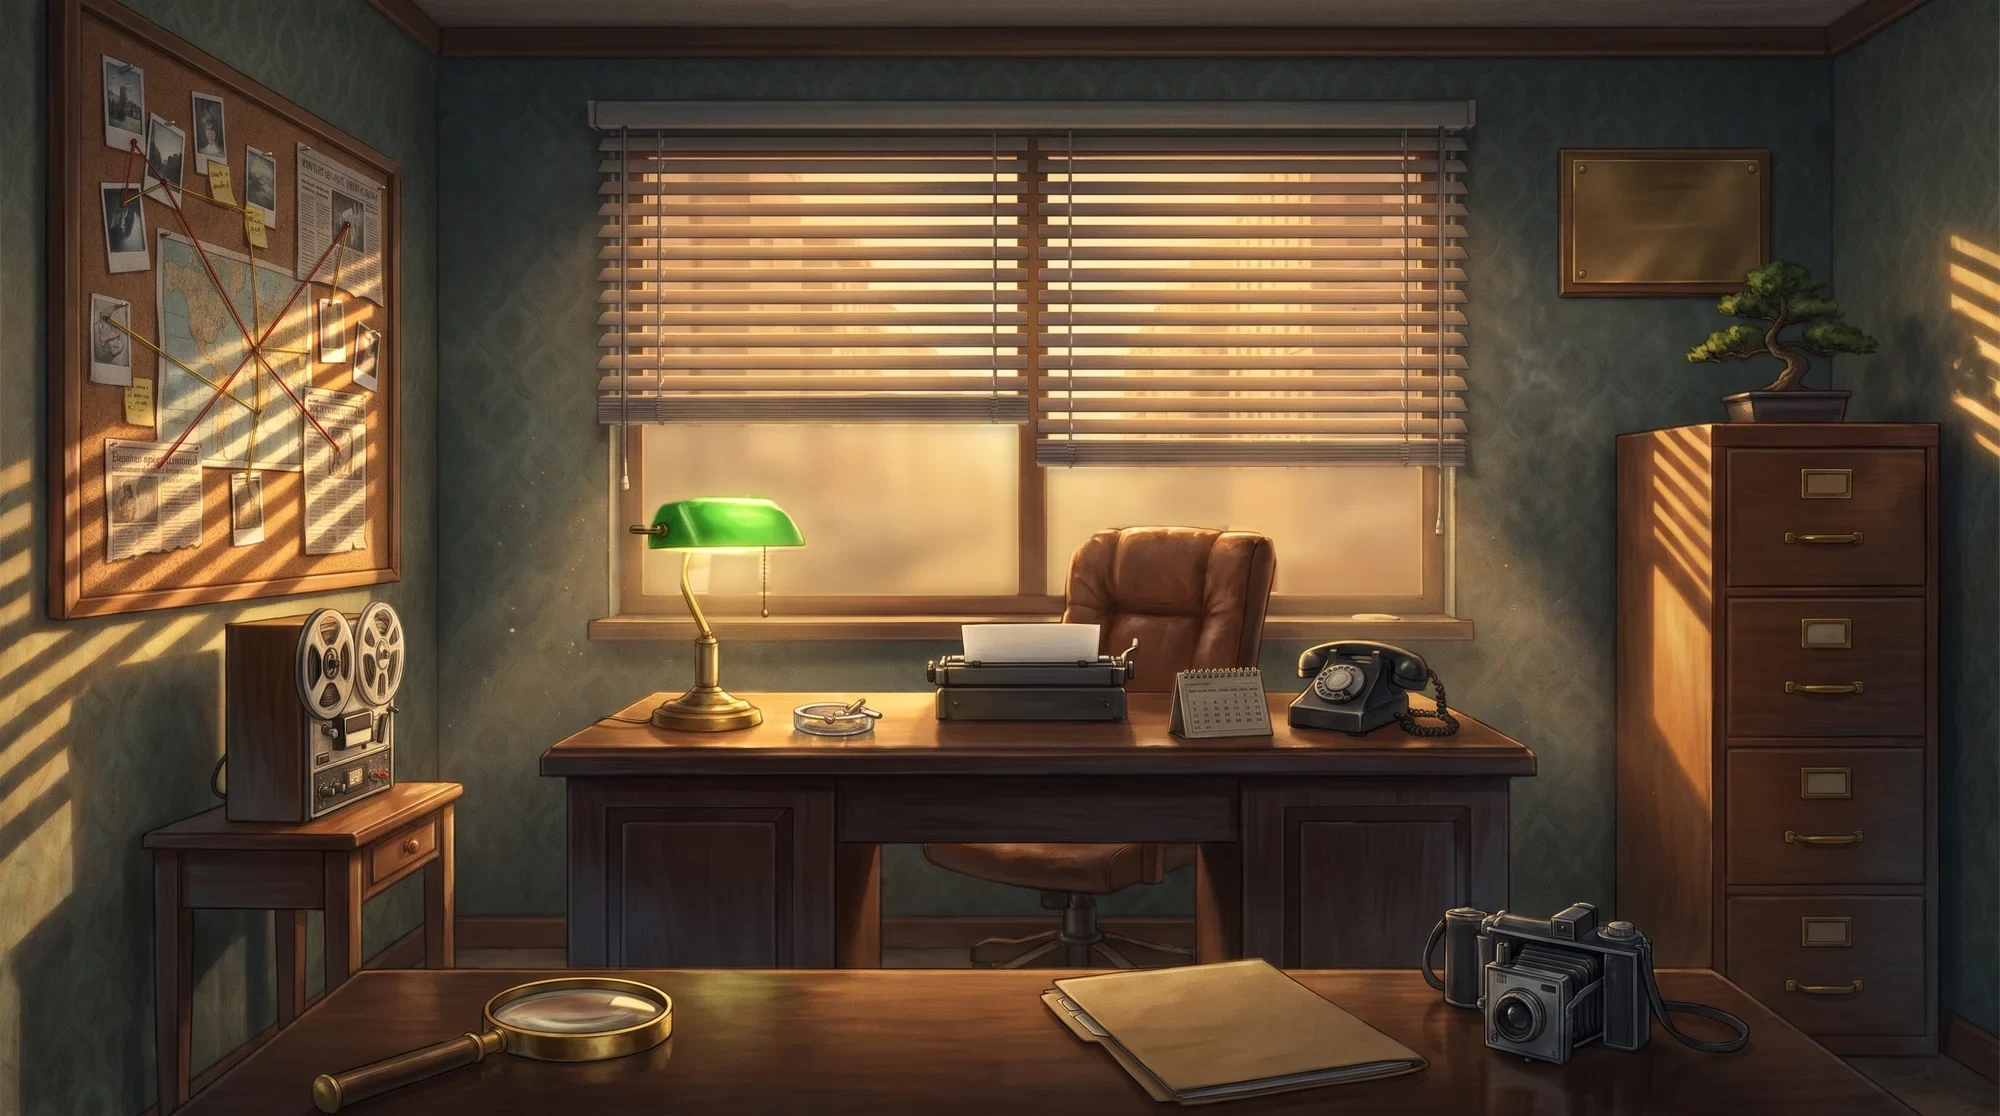
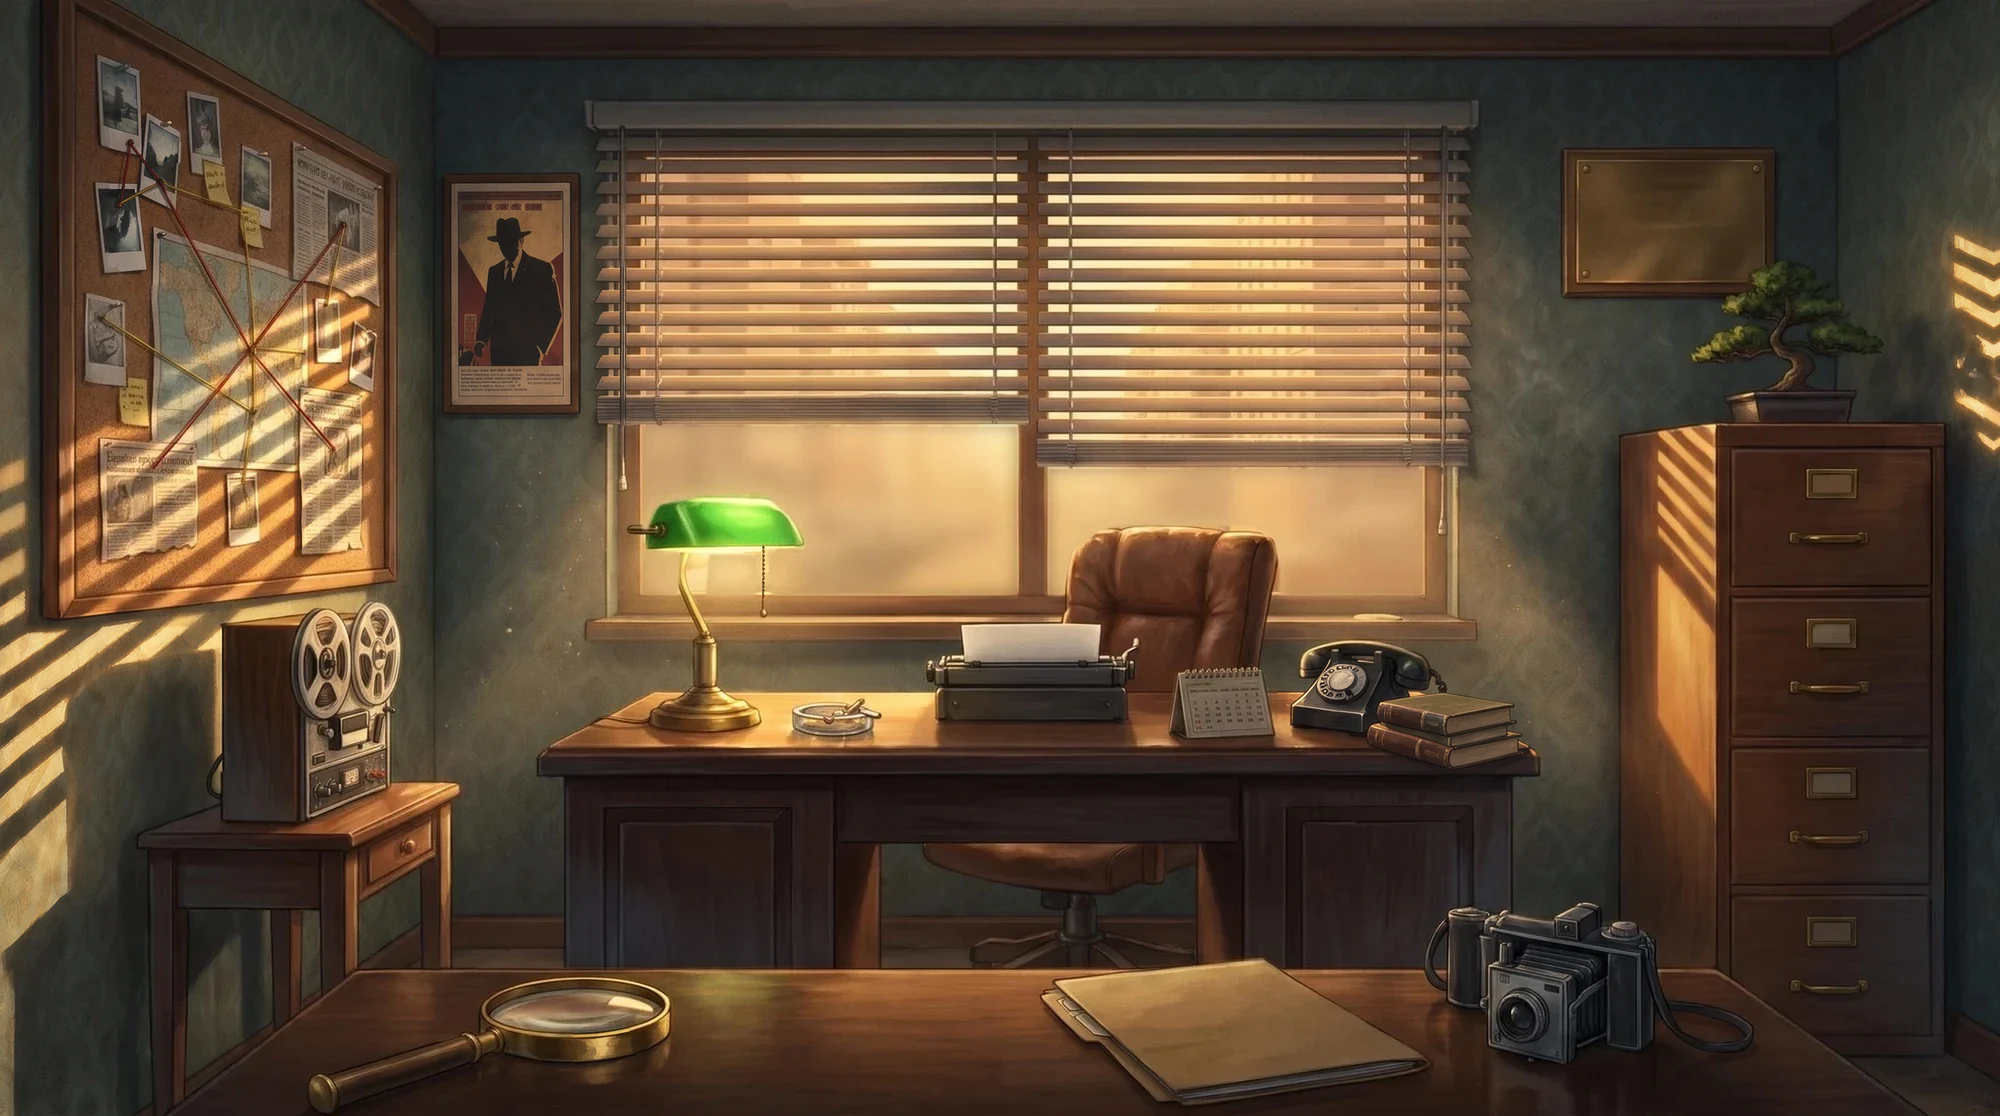
Regenerate desktop scene with new props and add Achievements panel
The desktop illustration now has the books and film poster to match the
vertical mobile scene. The plaque becomes Awards and opens an
Achievements panel with its own content instead of repeating Projects.

diff --git a/spike/despacho-tarde-mock.html b/spike/despacho-tarde-mock.html
@@ -150,17 +150,19 @@
   const SPOTS = [
     { id: 'skills',   label: 'Skills',   nav: true,  pts: '50,12 398,162 398,581 50,619',                        c: [225, 380],  tag: [225, 300] },
     { id: 'about',    label: 'About',    nav: true,  pts: '927,625 1138,625 1132,725 930,725',                   c: [1030, 676], tag: [1030, 585] },
-    { id: 'contact',  label: 'Contact',  nav: true,  pts: '1285,635 1462,635 1462,740 1285,740',                 c: [1372, 688], tag: [1372, 595] },
+    { id: 'contact',  label: 'Contact',  nav: true,  pts: '1285,635 1450,635 1450,695 1368,700 1368,740 1285,740',                 c: [1372, 688], tag: [1372, 595] },
     { id: 'projects', label: 'Projects', nav: true,  pts: '1616,431 1937,425 1937,1056 1616,1050',               c: [1776, 740], tag: [1776, 640] },
-    { id: 'plaque',   label: 'Winner',   nav: false, pts: '1559,150 1770,150 1770,295 1559,295',                 c: [1664, 222], tag: [1664, 335] },
+    { id: 'plaque',   label: 'Awards',   nav: false, pts: '1559,150 1770,150 1770,295 1559,295',                 c: [1664, 222], tag: [1664, 335] },
     { id: 'lens',     label: 'Magnifier',nav: false, pts: '310,1110 480,1015 668,978 672,1040 500,1062 340,1113', c: [490, 1040], tag: [490, 940] },
+    { id: 'books',    label: 'Books',    prop: true, pts: '1368,698 1522,700 1525,770 1370,758' },
+    { id: 'poster',   label: 'Poster',   prop: true, pts: '445,175 580,175 580,415 445,415' },
     { id: 'tape',     label: 'Play',     nav: false, pts: '225,600 400,600 400,825 225,825',                     c: [312, 735],  tag: [312, 862] },
   ];
   // fichas de evidencia (datos del design doc; textos de maqueta)
   const SCAN = {
     projects: { ex: 'Exhibit A', name: 'Projects cabinet', lines: ['4 cases on file · 673 commits', '2 public repos, 2 private', 'Latest win: AWS Zero to Shipped'] },
     skills:   { ex: 'Exhibit B', name: 'Connections board', lines: ['1,785 contributions in 12 months', 'Steady since May 2026', 'Busiest: Jun–Sep, 300+ a month'] },
-    plaque:   { ex: 'Exhibit C', name: 'Winner plaque', lines: ['AWS Zero to Shipped · 1 of 5', 'Rumbo a Casa · 205 commits'] },
+    plaque:   { ex: 'Exhibit C', name: 'Awards plaque', lines: ['AWS Zero to Shipped · 1 of 5', 'Rumbo a Casa · 205 commits'] },
     about:    { ex: 'Exhibit D', name: 'Typewriter', lines: ['March 2026: 17 contributions', 'July 2026: 408 contributions'] },
     books:    { ex: 'Exhibit F', name: 'Books', lines: ['Reads Camus and Dostoevsky'] },
     poster:   { ex: 'Exhibit G', name: 'Film poster', lines: ['Mafia cinema, the Al Pacino kind'] },
@@ -188,7 +190,7 @@
   const bo = el('g', { 'clip-path': 'url(#bonclip)' }); const bs = el('g', { class: 'sway' }, bo); bs.style.transformOrigin = '1790px 394px';
   el('image', { href: 'assets/despacho-tarde.webp', x: 0, y: 0, width: 2000, height: 1116 }, bs);
   // carretes de la grabadora: se recorta cada carrete (elipse por la perspectiva), se estira a círculo, se gira y se vuelve a comprimir
-  [[330, 664, 23, 50], [381, 653, 19.5, 47]].forEach(([cx, cy, rx, ry], i) => {
+  [[328, 664, 24.5, 52], [378, 654, 22, 50]].forEach(([cx, cy, rx, ry], i) => {
     const k = rx / ry;
     const cp = el('clipPath', { id: 'reelclip' + i }, defs); el('ellipse', { cx, cy, rx, ry }, cp);
     const outer = el('g', { 'clip-path': `url(#reelclip${i})` });
@@ -273,7 +275,7 @@
       { id: 'about',    label: 'About',    nav: true,  pts: '690,1310 944,1310 944,1480 690,1480',        c: [817, 1395], tag: [817, 1225] },
       { id: 'contact',  label: 'Contact',  nav: true,  pts: '1104,1320 1280,1320 1320,1450 1104,1450',    c: [1210, 1385], tag: [1215, 1660] },
       { id: 'projects', label: 'Projects', nav: true,  pts: '1296,920 1536,920 1536,1660 1296,1660',      c: [1420, 1290], tag: [1300, 1090] },
-      { id: 'plaque',   label: 'Winner',   nav: false, pts: '1246,544 1454,544 1454,700 1246,700',        c: [1350, 622],  tag: [1350, 470] },
+      { id: 'plaque',   label: 'Awards',   nav: false, pts: '1246,544 1454,544 1454,700 1246,700',        c: [1350, 622],  tag: [1350, 470] },
       { id: 'lens',     label: 'Magnifier',nav: false, pts: '56,2160 516,2160 516,2480 56,2480',          c: [290, 2320],  tag: [300, 2150] },
       { id: 'tape',     label: 'Play',     nav: false, pts: '20,1300 208,1300 208,1630 20,1630',          c: [110, 1545], tag: [170, 1740] },
       { id: 'books',    label: 'Books',    prop: true,  pts: '1124,1436 1350,1436 1350,1570 1124,1570' },
@@ -349,7 +351,10 @@
       <button class="btn" type="button" style="margin-top:0">Send message</button>
       <div class="group"><h3>Or reach me directly</h3><a class="btn alt" href="#" style="margin-top:4px">GitHub</a><a class="btn alt" href="#" style="margin-top:4px">LinkedIn</a><a class="btn alt" href="#" style="margin-top:4px">Email</a></div>
       <p class="meta">Real form: API Gateway + Lambda + SES.</p>`,
-    plaque: () => `<h2>Winner</h2><h1>AWS Zero to Shipped</h1><p>Winner (1 of 5) with <b>Rumbo a Casa</b>.</p><a class="btn" href="#">See the Winners tab</a><a class="btn alt" data-go="projects" href="#">See the project</a>`,
+    plaque: () => `<h2>Awards</h2><h1>Achievements</h1>
+      <div class="group"><h3>2026 · AWS Zero to Shipped</h3><p><b>Winner</b> (1 of 5) with <b>Rumbo a Casa</b>.</p><a class="btn" href="#">See the Winners tab</a><a class="btn alt" data-go="projects" href="#">See the project</a></div>
+      <div class="group"><h3>2026 · Rally de Innovación, USS</h3><p><b>1st place, Social Impact</b> with team Helix, for <b>Minuto Cero</b>, an ERP for Chilean minimarkets.</p><a class="btn alt" data-go="projects" href="#">See the project</a></div>
+      <p class="meta">The AWS certificate will be added here when it arrives.</p>`,
   };
   function open(id) {
     $('#content').innerHTML = PANELS[id](); if (id === 'skills') initMap(); $('#veil').classList.add('on'); body.classList.add('panel-open');

diff --git a/docs/superpowers/specs/2026-10-28-portafolio-scouter-design.md b/docs/superpowers/specs/2026-10-28-portafolio-scouter-design.md
@@ -53,19 +53,19 @@ Matías participa (individual) en el **AWS Student Builder Challenge: Build Your
 - Teléfono → **Contact**: se llama al detective.
 - Tablero de corcho con hilos → **Skills**: es donde conecta sus herramientas con sus casos.
 - Archivero → **Projects**: los casos archivados.
-- Placa en la pared → **Winner**: el logro AWS.
+- Placa en la pared → **Awards**: sus reconocimientos (panel "Achievements").
 
-**Ilustración.** `spike/assets/despacho-tarde.webp` (2000×1116, generada en Higgsfield, modelo cinematic_studio_2_5; original sin retoques en `despacho-tarde-original.webp`). Luz de tarde con persianas. Retoques propios: paisaje de la ventana desenfocado y humo pintado borrado. No se rehace el arte; si se regenera, que sea para añadir espacio o props concretos.
+**Ilustración.** `spike/assets/despacho-tarde.webp` (2000×1116): segunda versión (29 oct), editada en Higgsfield con `flux_3_image` a partir de la primera (cinematic_studio_2_5, conservada en el historial de git y como `despacho-tarde-original.webp` sin retoques). Luz de tarde con persianas; añade los libros junto al teléfono y el afiche de cine entre el tablero y la ventana, iguales a la versión vertical. Todo lo demás conserva su posición, por lo que los hotspots casi no cambiaron. No se rehace el arte; si se regenera, que sea para añadir espacio o props concretos.
 
 **Escena.** SVG con la imagen y una capa de hotspots poligonales en coordenadas de la imagen. La escena se ajusta con `preserveAspectRatio="xMidYMid slice"`.
 
 ## 5. Navegación
 
 - **Barra superior fija (opción A):** marca "Matías Rodriguez" y menú **About, Skills, Projects, Contact**. Funciona sin tocar la escena.
-- **Objetos con etiqueta visible** (punto pulsante y etiqueta de papel): Skills, About, Contact, Projects y Winner (placa), más el carrete de cinta ("Play") y la lupa ("Magnifier").
+- **Objetos con etiqueta visible** (punto pulsante y etiqueta de papel): Skills, About, Contact, Projects y Awards (placa), más el carrete de cinta ("Play") y la lupa ("Magnifier").
 - **Paneles:** hoja clara sobre la escena atenuada, texto legible, sin rotaciones ni máquina de escribir, con enlaces directos. Se cierran con la X, con `Esc` o haciendo clic fuera. Foco visible y navegación por teclado en los hotspots.
 - **Pista inferior fija:** "Pick up the magnifier on the desk to inspect the objects · or use the menu above · press play on the tape". Cambia mientras la lupa está activa.
-- Sin Journey ni trayectoria como sección: los logros viven en Projects, la placa y About.
+- Sin Journey ni trayectoria como sección: los reconocimientos viven en la placa (Achievements) y en las tarjetas de Projects.
 
 ## 6. Paneles (contenido)
 
@@ -86,7 +86,7 @@ Total: 673 commits (dato de la ficha de la lupa). Los repos privados (JequeBot, 
 
 **Contact.** Formulario corto (nombre, correo, mensaje) que usa API Gateway + Lambda + SES, más enlaces a GitHub, LinkedIn y correo, con `mailto:` de respaldo.
 
-**Winner (placa).** Panel breve: ganador (1 de 5) de AWS Zero to Shipped con Rumbo a Casa, enlace a la pestaña Winners y al proyecto. Es un énfasis pequeño; el portafolio sigue siendo completo.
+**Awards (placa): panel "Achievements".** Contenido propio, sin repetir las tarjetas de Projects: AWS Zero to Shipped (ganador, 1 de 5, con Rumbo a Casa, con enlace a la pestaña Winners y al proyecto) y Rally de Innovación 2026, USS (1º lugar Impacto Social con el equipo Helix, por Minuto Cero). Cuando llegue el certificado de AWS se añade aquí. Responde a la sección "Projects/Achievements" que piden las reglas.
 
 La práctica profesional en legal tech se menciona como una línea genérica, sin nombre de cliente ni detalles de código.
 
@@ -104,7 +104,7 @@ Principio: **bastante visible, no invasivo.** Todo son capas SVG/CSS sobre la im
 
 ## 8. La feature creativa: la lupa
 
-**Qué es.** Un modo opcional en el que el visitante "recoge" la lupa de la mesa y puede mirar de cerca los objetos del despacho. Al apuntar a un objeto aparece una **ficha de papel** con tinta ámbar ("Exhibit A…G (F y G solo existen en la vertical por ahora)") con 1-3 líneas de datos. Tono sobrio, sin humor.
+**Qué es.** Un modo opcional en el que el visitante "recoge" la lupa de la mesa y puede mirar de cerca los objetos del despacho. Al apuntar a un objeto aparece una **ficha de papel** con tinta ámbar ("Exhibit A…G ") con 1-3 líneas de datos. Tono sobrio, sin humor.
 
 **Pista visible.** La lupa de la mesa lleva etiqueta "Magnifier" y la franja inferior fija dice "Pick up the magnifier on the desk to inspect the objects". No hay botón aparte en la barra. Se activa con clic en la lupa o con la tecla `S`; se sale con `Esc`. Con la lupa activa, el cursor se convierte en una lente y navegar (clics, menú, scroll) sigue funcionando. Funciona sin la lupa: nada profesional depende de ella.
 
@@ -126,6 +126,8 @@ Principio: **bastante visible, no invasivo.** Todo son capas SVG/CSS sobre la im
 **Contador de escaneos (opcional).** Cada ficha puede mostrar "visto N veces por visitantes", guardado en DynamoDB (ver sección 9). Si el backend falla, el contador se oculta y la lupa funciona igual. Es el primer recorte si falta tiempo.
 
 **Móvil: ilustración vertical.** En pantallas de hasta 760 px el sitio usa `spike/assets/despacho-vertical.webp` (9:16, 1536×2736), generada en Higgsfield con `flux_3_image` y la ilustración horizontal como referencia. Ya incluye los props nuevos (libros y afiche de cine genérico). Sobre ella se montan los mismos hotspots, etiquetas (más grandes, con la de Contact hacia abajo para no chocar con Projects), puntos pulsantes y capas de movimiento (carretes, humo, polvo, luz, bonsái). Menú fijo arriba con un botón 🔍 para recoger y soltar la lupa; con la lupa activa, un toque abre la ficha como hoja inferior y un segundo toque abre el panel del objeto. Los libros y el afiche son hotspots solo con lupa (Exhibit F y G). Se descartaron antes una lista de botones bajo una escena pequeña y un deslizamiento lateral de la escena horizontal. Pendiente: probar en teléfono real, tabletas y pantallas horizontales.
+
+La versión de escritorio ya tiene los mismos libros y afiche (hotspots Books y Poster, Exhibit F y G, solo con lupa).
 
 **Accesibilidad.** Las fichas se anuncian en una región `aria-live`. `prefers-reduced-motion` quita animaciones. Libros y afiche son decorativos para lectores de pantalla; sus fichas deben poder leerse de otra forma (p. ej. como parte de la lista de exhibits).
 
@@ -177,14 +179,16 @@ Reglas: `scan` valida el objetivo contra una lista permitida; una ficha solo cue
 2. **Cargo exacto** en la legaltech y el titular exacto ("Ingeniería Civil en Informática" u otro).
 3. **Relaciones herramienta–caso** del mapa de Skills, y qué herramientas faltan (p. ej. React Native en FitTrack).
 4. **Props nuevos:** títulos concretos de libros, películas y actores del afiche, y generar el arte (libros y afiche/rollo) en Gemini con prompt de Claude para pegarlo sobre la ilustración sin regenerar el cuarto.
-4b. **Móvil:** validar en un teléfono real y decidir si la versión de escritorio también recibe los libros y el afiche (hoy solo la vertical los tiene).
+4b. **Móvil:** validar en un teléfono real, en tabletas y en pantallas horizontales.
 5. **Repos privados:** confirmar que pueden mostrarse solo por nombre, descripción y premio.
 6. **Capturas** de cada proyecto (las tarjetas necesitan una imagen; si no hay, tarjetas estilizadas).
 7. **Enlaces reales:** GitHub (BlasterLc), LinkedIn, correo, repos y demo de Rumbo a Casa, pestaña Winners de Zero to Shipped.
 8. **Dominio propio** (blastercl.dev u otro) o solo la URL de Amplify. Verificar de paso que no exista un portafolio anterior publicado, para cumplir "original y no publicado antes".
 9. **Cuenta AWS y Builder Center:** confirmar cuenta activa con Amplify y estado de estudiante verificado. Sin eso la entrega no califica.
-10. **Certificado de Zero to Shipped:** aún no se entrega; cuando llegue, se añade como segunda prueba en la placa.
+10. **Certificado de Zero to Shipped:** aún no se entrega; cuando llegue, se añade como tercera entrada del panel Achievements.
 11. **Contador de escaneos:** ¿se incluye o se recorta?
+12. **Regeneración de la imagen (más adelante, sin romper hotspots):** los libros se ven medio caídos; hay props sin función (bonsái, cámara, carpeta, cenicero, calendario) que no convencen y habría que reemplazarlos por objetos con sentido. Se regenera editando con las mismas referencias y manteniendo las posiciones.
+13. ~~Panel de la placa~~ Resuelto (29 oct): la placa pasó a "Awards" y su panel a "Achievements" con contenido propio.
 
 ## 14. Plan de alto nivel (calendario sugerido)
 
